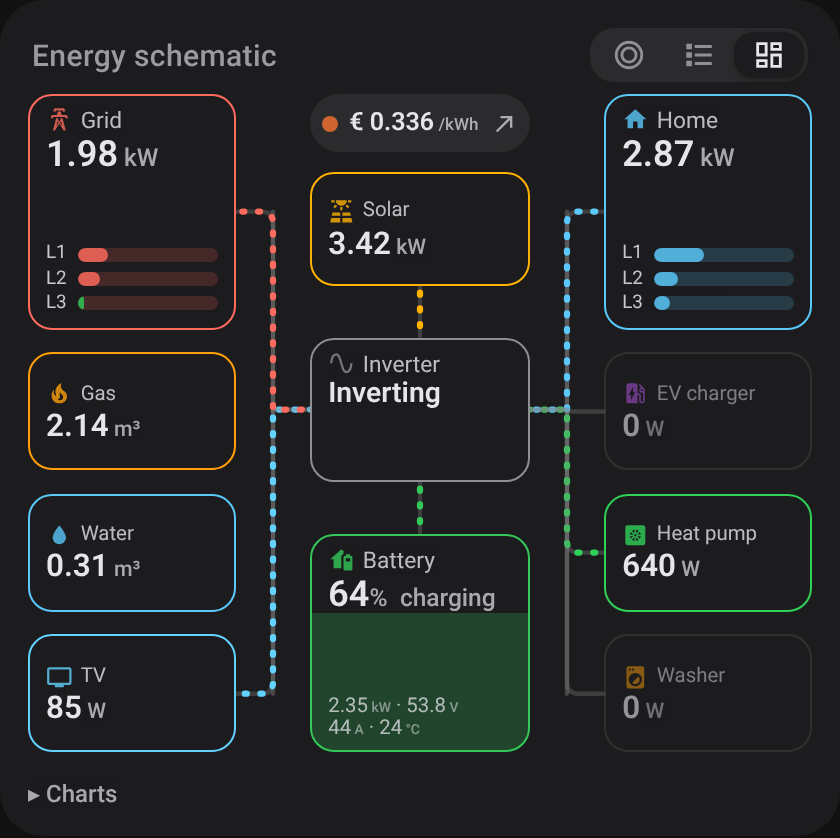
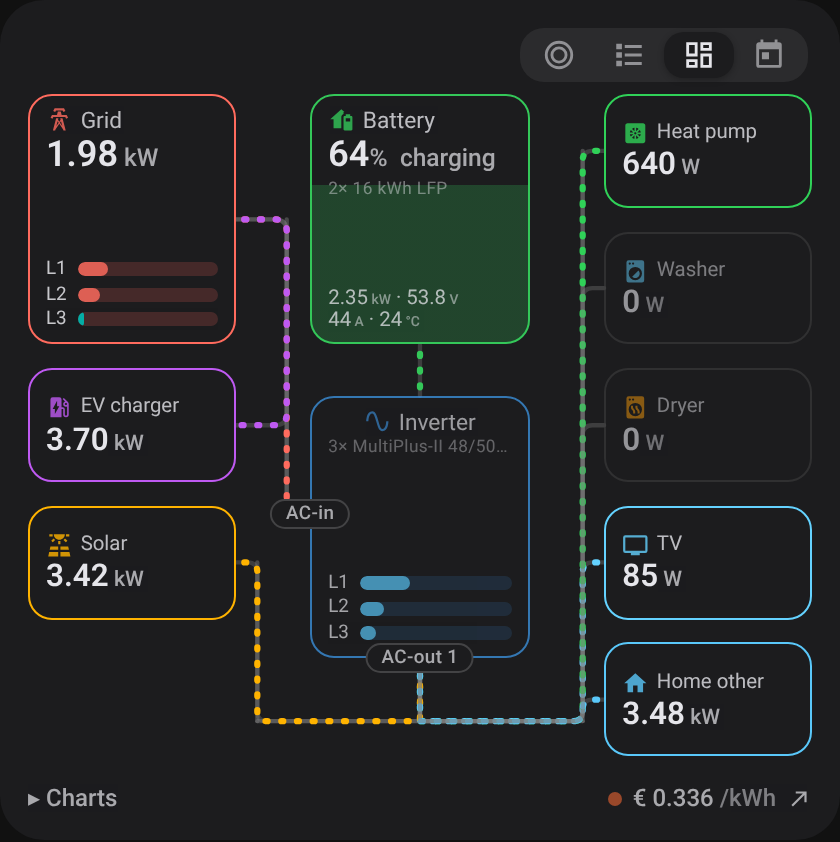
Release 1.2.0: Today costs, cheapest block, new screenshots
Claude-Session: https://claude.ai/code/session_01MQy5wZDzkBhC9TfTZhpBbL

diff --git a/total-home-energy-flow-card.js b/total-home-energy-flow-card.js
@@ -4,12 +4,12 @@
  * Line thickness follows power; optional moving dots.
  * https://github.com/gjvdveen/total-home-energy-flow-card  — MIT License
  */
-const THEF_VERSION = "1.9.0";
+const THEF_VERSION = "1.2.0";
 
 const T = {
-  en: { home_total: "Home total", produced: "produced", used: "used", imported: "imported", exp_short: "export", today_total: "Total today", home: "Home", solar: "Solar", grid: "Grid", battery: "Battery", import: "import", export: "export",
+  en: { charged: "charged", discharged: "discharged", home_total: "Home total", produced: "produced", used: "used", imported: "imported", exp_short: "export", today_total: "Total today", home: "Home", solar: "Solar", grid: "Grid", battery: "Battery", import: "import", export: "export",
         charging: "charging", discharging: "discharging", supplying: "supplying", idle: "idle", off: "off", rest: "Other", unavailable: "unavailable", legend: "Legend", charts: "Charts", gas: "Gas", water: "Water", today: "today", price: "Price", consumption: "Usage", soc: "Battery", nodata: "No data", ring: "Ring: where the home's power comes from", lines: "Line thickness = power · dots show direction", consumers: "Devices", devices_n: "devices", now: "now", at: "at", today_tab: "Today", now_tab: "Now", price_legend: "Price (on the grid tile): dot green = cheap · orange = average · red = expensive compared with today · arrow = next price goes up or down" },
-  nl: { home_total: "Huis totaal", produced: "opbrengst", used: "verbruik", imported: "afname", exp_short: "terug", today_total: "Totaal vandaag", home: "Huis", solar: "Solar", grid: "Net", battery: "Accu", import: "afname", export: "teruglevering",
+  nl: { charged: "geladen", discharged: "ontladen", home_total: "Huis totaal", produced: "opbrengst", used: "verbruik", imported: "afname", exp_short: "terug", today_total: "Totaal vandaag", home: "Huis", solar: "Solar", grid: "Net", battery: "Accu", import: "afname", export: "teruglevering",
         charging: "laden", discharging: "ontladen", supplying: "levert", idle: "rust", off: "uit", rest: "Overig", unavailable: "niet beschikbaar", legend: "Legenda", charts: "Grafieken", gas: "Gas", water: "Water", today: "vandaag", price: "Prijs", consumption: "Verbruik", soc: "Accu", nodata: "Geen gegevens", ring: "Ring: waar de stroom van het huis vandaan komt", lines: "Dikte van de lijn = vermogen · bolletjes = richting", consumers: "Apparaten", devices_n: "apparaten", now: "nu", at: "om", today_tab: "Vandaag", now_tab: "Nu", price_legend: "Prijs (bij Net): bolletje groen = goedkoop · oranje = gemiddeld · rood = duur t.o.v. vandaag · pijltje = volgende prijs hoger of lager" },
 };
 
@@ -735,6 +735,7 @@ class TotalHomeEnergyRingCard extends HTMLElement {
       .tile .th { display:flex; align-items:center; gap:4px; font-size: clamp(10px, 2.9cqw, 13px); opacity:.8; white-space:nowrap; overflow:hidden; }
       .tile .th ha-icon { --mdc-icon-size: clamp(12px, 3.4cqw, 16px); color: var(--c); flex:0 0 auto; }
       .tile ha-icon.ar { --mdc-icon-size:.8em; opacity:.6; margin-right:3px; vertical-align:-.05em; } .tile .ts ha-icon.ar { --mdc-icon-size:1em; margin-right:2px; }
+      .tile .eur { font-weight:600; opacity:.9; }
       .tile .tv { font-size: clamp(14px, 4.6cqw, 24px); font-weight:600; font-variant-numeric: tabular-nums; white-space:nowrap; line-height:1.2; overflow:hidden; text-overflow:ellipsis; }
       .tile .tv.txt { font-size: clamp(12px, 3.6cqw, 18px); white-space:normal; line-height:1.15; }
       .tile.inv .tv.txt { font-size: clamp(11px, 3.1cqw, 15px); font-weight:600; margin:auto 0; padding-bottom:4px; align-self:stretch; text-align:center; text-wrap:balance; }
@@ -853,6 +854,44 @@ class TotalHomeEnergyRingCard extends HTMLElement {
     this._pPts = pts.sort((a, b) => a[0] - b[0]);
     return `<i style="background:hsl(${(120 - 120 * f).toFixed(0)},62%,50%)"></i><span>${pcfg.prefix != null ? pcfg.prefix : "€ "}${isNaN(v) ? pc.state : v.toLocaleString(loc, { minimumFractionDigits: pcfg.decimals != null ? pcfg.decimals : 3, maximumFractionDigits: pcfg.decimals != null ? pcfg.decimals : 3 })}<span class="u"> /kWh</span></span>${tr ? `<ha-icon icon="${tr}"></ha-icon>` : ""}`;
   }
+  _pricePts() {   // [[start ms, price]] from the price sensor's attribute, sorted
+    const c = this._config, pcfg = c.price || {}, pc = pcfg.entity && this._hass.states[pcfg.entity]; if (!pc) return [];
+    const arr = (pcfg.attribute && pc.attributes[pcfg.attribute]) || (c.chart && c.chart.price && pc.attributes[c.chart.price.attribute || "prices"]) || [];
+    const sk = pcfg.start_key || (c.chart && c.chart.price && c.chart.price.start_key) || "start", vk = pcfg.value_key || (c.chart && c.chart.price && c.chart.price.value_key) || "price";
+    return (Array.isArray(arr) ? arr : []).map((x) => Array.isArray(x) ? [Date.parse(x[0]), +x[1]] : [Date.parse(x[sk]), +x[vk]]).filter((x) => !isNaN(x[0]) && !isNaN(x[1])).sort((a, b) => a[0] - b[0]);
+  }
+  _hourPrices(pts) {   // average per whole hour (also for 15-minute prices): [[hour start ms, price]]
+    const m = new Map(); for (const [t, v] of pts) { const h = new Date(t); h.setMinutes(0, 0, 0); const k = h.getTime(); const e = m.get(k) || [0, 0]; e[0] += v; e[1]++; m.set(k, e); }
+    return [...m.entries()].sort((a, b) => a[0] - b[0]).map(([k, e]) => [k, e[0] / e[1]]);
+  }
+  _hourly(id) {   // today's change per hour (Wh) of a total meter, completed hours: Map(hour start ms -> Wh)
+    if (!id) return null;
+    this._hstats = this._hstats || {};
+    const c0 = this._hstats[id];
+    if (!c0 || Date.now() - c0.t > 300000) {
+      this._hstats[id] = { t: Date.now(), v: c0 ? c0.v : null };
+      const d0 = new Date(); d0.setHours(0, 0, 0, 0);
+      this._hass.callWS({ type: "recorder/statistics_during_period", start_time: d0.toISOString(), statistic_ids: [id], period: "hour", types: ["change"], units: { energy: "Wh" } })
+        .then((r) => { const m = new Map(); for (const x of (r && r[id]) || []) { const t = typeof x.start === "number" ? x.start : Date.parse(x.start); if (x.change != null) m.set(t, x.change); }
+          this._hstats[id].v = m; this._sig = null; this._render(); }).catch(() => {});
+    }
+    return this._hstats[id].v;
+  }
+  // cost today (€) of a sum of meters: terms [[id, sign]]; per hour × that hour's price, the running hour at the current price
+  _cost(terms, clamp) {
+    const hp = this._hourPrices(this._pricePts()); if (!hp.length || !terms.length) return null;
+    const pAt = (t) => { let p = null; for (const h of hp) { if (h[0] <= t) p = h[1]; else break; } return p != null ? p : hp[0][1]; };
+    const hours = new Map(); const now = new Date(); now.setMinutes(0, 0, 0); const cur = now.getTime();
+    for (const [id, sg] of terms) {
+      const tot = this._stat(id), hm = this._hourly(id); if (tot == null || !hm) return null;
+      let sum = 0; for (const [t, wh] of hm) { if (t >= cur) continue; hours.set(t, (hours.get(t) || 0) + sg * wh); sum += wh; }
+      hours.set(cur, (hours.get(cur) || 0) + sg * Math.max(0, tot - sum));
+    }
+    let eur = 0; for (const [t, wh] of hours) eur += (clamp ? Math.max(0, wh) : wh) / 1000 * pAt(t);
+    return eur;
+  }
+  _eur(v) { const pcfg = this._config.price || {}, loc = this._hass.language || "en";
+    return v == null ? "" : (v < 0 ? "−" : "") + (pcfg.prefix != null ? pcfg.prefix : "€ ") + Math.abs(v).toLocaleString(loc, { minimumFractionDigits: 2, maximumFractionDigits: 2 }); }
   // unfolded price: cheapest and most expensive moment today (and tomorrow, when known)
   _pricePanel() {
     const pts = this._pPts || [], pcfg = this._config.price || {}, loc = this._hass.language || "en", dec = pcfg.decimals != null ? pcfg.decimals : 3, pre = pcfg.prefix != null ? pcfg.prefix : "€ ";
@@ -864,8 +903,14 @@ class TotalHomeEnergyRingCard extends HTMLElement {
     const row = (lbl, list, pick) => { if (!list.length) return ""; const v = pick(...list.map((x) => x[1])), x = list.find((y) => y[1] === v);
       const hsl = pick === Math.min ? "120,62%,45%" : "0,62%,52%";
       return `<div class="pr"><i style="background:hsl(${hsl})"></i><span class="l">${lbl}</span><span class="t">${hm(x[0])}–${hm(x[0] + (isFinite(step) ? step : 3600e3))}</span><b>${fm(v)}</b></div>`; };
-    const blk = (title, list) => list.length ? `<div class="ph">${title}</div>` + row(nl ? "Goedkoopst" : "Cheapest", list, Math.min) + row(nl ? "Duurst" : "Most expensive", list, Math.max) : "";
-    const html = blk(nl ? "Vandaag" : "Today", day(0)) + blk(nl ? "Morgen" : "Tomorrow", day(1));
+    // cheapest block of N whole hours (price.block_hours, default 3); today only from now on, so it can still be used
+    const BH = Number(pcfg.block_hours) > 0 ? Number(pcfg.block_hours) : 3;
+    const block = (list, fromNow) => { const hrs = this._hourPrices(list).filter((h) => !fromNow || h[0] + 3600e3 > Date.now()); let best = null;
+      for (let i = 0; i + BH <= hrs.length; i++) { const w = hrs.slice(i, i + BH); if (w[BH - 1][0] - w[0][0] !== (BH - 1) * 3600e3) continue;
+        const avg = w.reduce((a, h) => a + h[1], 0) / BH; if (!best || avg < best.avg) best = { t: w[0][0], avg }; }
+      return best ? `<div class="pr"><i style="background:hsl(150,55%,42%)"></i><span class="l">${nl ? `Goedkoopste ${BH} uur` : `Cheapest ${BH} h`}</span><span class="t">${hm(best.t)}–${hm(best.t + BH * 3600e3)}</span><b>${fm(best.avg)}</b></div>` : ""; };
+    const blk = (title, list, off) => list.length ? `<div class="ph">${title}</div>` + row(nl ? "Goedkoopst" : "Cheapest", list, Math.min) + block(list, off === 0) + row(nl ? "Duurst" : "Most expensive", list, Math.max) : "";
+    const html = blk(nl ? "Vandaag" : "Today", day(0), 0) + blk(nl ? "Morgen" : "Tomorrow", day(1), 1);
     return html || `<div class="ph">${this._t("nodata")}</div>`;
   }
   _render() {
@@ -954,7 +999,7 @@ class TotalHomeEnergyRingCard extends HTMLElement {
       el.style.setProperty("--c", L.col);
       el.style.top = (L.y / 290 * 100) + "%";
       if (L.side === "l") el.style.left = (L.x / 400 * 100) + "%"; else el.style.right = ((400 - L.x) / 400 * 100) + "%";
-      const sub = g.export_color || g.direction ? ((L.x0.tot || 0) < 0 ? (g.export_name || "teruglevering") : (g.import_name || "afname")) : "";
+      const sub = g.export_color || g.direction ? ((L.x0.tot || 0) < 0 ? (g.export_name || this._t("export")) : (g.import_name || this._t("import"))) : "";
       const tv = L.x0.tot || 0, dir = (g.export_color || g.direction) && Math.abs(tv) > 20;
       // arrow points towards the battery/home when importing, away when exporting
       const toMid = tv > 0, arr = dir ? (L.side === "l" ? (toMid ? "mdi:arrow-right-bold" : "mdi:arrow-left-bold") : (toMid ? "mdi:arrow-left-bold" : "mdi:arrow-right-bold")) : "";
@@ -978,7 +1023,7 @@ class TotalHomeEnergyRingCard extends HTMLElement {
     // charging positive, discharging negative (like Victron)
     const pw = bp == null ? "" : (bp > 10 ? "−" : "") + this._fmtHtml(bp);
     m.querySelector(".s").innerHTML = [vt, pw].filter(Boolean).join(" ");
-    m.title = bp == null ? "" : bp < -10 ? (b.charging_name || "laden") : bp > 10 ? (b.discharging_name || "ontladen") : (b.idle_name || "rust");
+    m.title = bp == null ? "" : bp < -10 ? (b.charging_name || this._t("charging")) : bp > 10 ? (b.discharging_name || this._t("discharging")) : (b.idle_name || this._t("idle"));
   }
   _hist(id) {   // last hour of a power sensor, for the sparklines
     if (!id) return null;
@@ -1020,16 +1065,19 @@ class TotalHomeEnergyRingCard extends HTMLElement {
   }
   _renderToday(groups, soc) {   // same schematic, but kWh since midnight (from the long-term statistics)
     const c = this._config, st = (id) => (id ? this._stat(id) : null), b = c.battery || {};
+    const showCost = !!(c.price && c.price.entity) && (c.price.today_cost !== false);   // € per tile, from the hourly price
     const tg = (x) => {
       const g = x.g;
       if (g.type === "meter") return { ...x };
       if (g.energy_import || g.energy_export) {
         const i = st(g.energy_import) || 0, e = st(g.energy_export) || 0;
-        return { ...x, tot: i, ph: [], w: 1.5, src: true, sub: e > 0 ? `<ha-icon class="ar" icon="mdi:arrow-left"></ha-icon>` + this._fmtHtml(e) : "", imp: i, exp: e };
+        const nc = showCost ? this._cost([[g.energy_import, 1], ...(g.energy_export ? [[g.energy_export, -1]] : [])]) : null;   // net cost: import minus export
+        return { ...x, tot: i, ph: [], w: 1.5, src: true, sub: [e > 0 ? `<ha-icon class="ar" icon="mdi:arrow-left"></ha-icon>` + this._fmtHtml(e) : "", nc != null ? `<span class="eur">${this._eur(nc)}</span>` : ""].filter(Boolean), imp: i, exp: e };
       }
       // say what the kWh is: produced by a source (solar), used by a consumer
       const isSrc = g.source || g.position === "top" || (groups.l.includes(x) && !g.load && g.ac !== "in");
-      return { ...x, tot: g._rest ? null : (g.energy ? st(g.energy) : null), ph: [], w: 1, src: !!isSrc };
+      const ec = showCost && g.energy && !g._rest ? this._cost([[g.energy, 1]]) : null;
+      return { ...x, tot: g._rest ? null : (g.energy ? st(g.energy) : null), ph: [], w: 1, src: !!isSrc, sub: ec != null ? `<span class="eur">${this._eur(ec)}</span>` : undefined };
     };
     this._eMode = true;
     const tgs = { l: groups.l.map(tg), r: groups.r.map(tg) };
@@ -1043,6 +1091,13 @@ class TotalHomeEnergyRingCard extends HTMLElement {
     const home = rest && rest.g.entity ? null : tgs.r.find((x) => !x.g._rest);
     if (home && home.tot == null && !home.g.energy) home.tot = bal;
     if (rest) this._restCalc(tgs, rest, rest.g.entity ? (rest.g.energy ? st(rest.g.energy) : bal) : undefined);
+    if (rest && showCost && rest.tot != null) {
+      const gi = grid && grid.g, homeT = rest.g.energy ? [[rest.g.energy, 1]] : gi ? [[gi.energy_import, 1], ...(gi.energy_export ? [[gi.energy_export, -1]] : []), ...srcs.filter((x) => x.g.energy).map((x) => [x.g.energy, 1]),
+        ...(b.energy_discharge ? [[b.energy_discharge, 1]] : []), ...(b.energy_charge ? [[b.energy_charge, -1]] : [])] : [];
+      const loads = [...tgs.r, ...tgs.l].filter((x) => x !== rest && x !== grid && !x.src && x.g.energy && x.g.type !== "meter" && x.g.in_rest !== false && (x.g.ac !== "in" || x.g.in_rest === true));
+      const rc = homeT.length ? this._cost([...homeT, ...loads.map((x) => [x.g.energy, -1])], true) : null;
+      if (rc != null) rest.sub = `<span class="eur">${this._eur(rc)}</span>`;
+    }
     this._el.ov.classList.add("static");
     this._renderOv(tgs, soc, this._bE ? this._bE.d - this._bE.c : null);
     this._eMode = false;
@@ -1174,7 +1229,7 @@ class TotalHomeEnergyRingCard extends HTMLElement {
     const needMid = hPr + PG + hTop + hInv + hBat + (hTop ? LG2 : 0) + (hBat ? LG2 : 0) + (vic ? 20 : 0);
     let topH = Math.round(Math.max(cmp ? 200 : 240, vicPos ? 0 : needSides, needMid));   // Victron layout: rows counted on the grid below
     // Victron layout: both columns on one row grid, so left and right tiles line up (a tile with phase bars takes two rows)
-    const SP = UMIN + G, sl = (x) => (x.ph && x.ph.length ? 2 : 1);
+    const SP = UMIN + G, sl = (x) => ((x.ph && x.ph.length) || (x.g.phases && x.g.phases.length) ? 2 : 1);
     if (vicPos) { const ns = Math.max(...[[...vicPos.lTop, ...vicPos.lBot], [...vicPos.rTop, ...vicPos.rBot]].map((L) => L.reduce((a, x) => a + sl(x), 0)));
       topH = Math.max(Math.ceil((Math.max(topH, ns * SP - G) + G) / SP), ns) * SP - G; }
     const rows = Math.ceil(devs.length / 3), RH = UMIN, gridTop = topH + 30;
@@ -1213,7 +1268,7 @@ class TotalHomeEnergyRingCard extends HTMLElement {
           if (p.sm && m.sub) { const t = this._tiles[side + i]; t.querySelector(".th span").textContent = (g.name || "") + " · " + m.sub.replace(/<[^>]+>/g, "").replace(/\u00a0/g, " "); }
           return; }
         const exp = g.export_color && (x.tot || 0) < 0, cc = exp ? g.export_color : color, on = Math.abs(x.tot || 0) > thr(g);
-        const sub = g.export_color ? ((x.tot || 0) < -thr(g) ? (g.export_name || "teruglevering") : (x.tot || 0) > thr(g) ? (g.import_name || "afname") : "") : "";
+        const sub = g.export_color ? ((x.tot || 0) < -thr(g) ? (g.export_name || this._t("export")) : (x.tot || 0) > thr(g) ? (g.import_name || this._t("import")) : "") : "";
         this._tile(side + i, { x: tx, y: p.y, w: CW, h: p.h, color: cc, on, icon: g.icon || "mdi:flash", name: g.name, value: (x.src != null ? `<ha-icon class="ar" icon="mdi:arrow-${(side === "l") === x.src ? "right" : "left"}"></ha-icon>` : "") + this._fmtHtml(x.tot), phases: x.ph.length ? x.ph : null, sub: x.sub != null ? x.sub : !x.ph.length && sub && !p.sm ? sub : "", cls: p.sm ? "sm" : "", cfg: g });
         const br = false;   // (old in-column home branch, replaced by the grid below)
         let ty = br && i === 0 ? p.y + Math.min(28, p.h / 3) : p.y + p.h / 2, ex = side === "l" ? tx + CW : tx, bx = side === "l" ? (ex + inT.x) / 2 + (vic ? 7 : 0) : br ? inT.x + MW + (ex - inT.x - MW) * 0.35 : (inT.x + MW + ex) / 2;
@@ -1290,11 +1345,11 @@ class TotalHomeEnergyRingCard extends HTMLElement {
     // battery
     if (b) {
       const alarm = b.soc_alarm != null ? Number(b.soc_alarm) : 15, bc = b.color || (soc != null && soc < alarm ? "#ff6b5e" : "#34c759");
-      const st = bp == null ? "" : bp < -10 ? (b.charging_name || "laden") : bp > 10 ? (b.discharging_name || "ontladen") : (b.idle_name || "rust");
+      const st = bp == null ? "" : bp < -10 ? (b.charging_name || this._t("charging")) : bp > 10 ? (b.discharging_name || this._t("discharging")) : (b.idle_name || this._t("idle"));
       const f = (id, u, dec) => { const e = id && hs[id]; if (!e || isNaN(parseFloat(e.state))) return null; return parseFloat(e.state).toLocaleString(this._hass.language || "en", { maximumFractionDigits: dec, minimumFractionDigits: dec }) + "<span class='u'>\u00a0" + u + "</span>"; };
       const bw = Math.abs(bp || 0) > 10 ? (bp > 0 ? "−" : "") + this._fmtHtml(bp) : "";
       let l1 = [bw, f(b.voltage, "V", 1)].filter(Boolean).join(" · "), l2 = [f(b.current, "A", 0), f(b.temperature, "°C", 0)].filter(Boolean).join(" · ");
-      if (this._eMode && this._bE) { l1 = (b.charged_name || "geladen") + " " + this._fmtHtml(this._bE.c); l2 = (b.discharged_name || "ontladen") + " " + this._fmtHtml(this._bE.d); }
+      if (this._eMode && this._bE) { l1 = (b.charged_name || this._t("charged")) + " " + this._fmtHtml(this._bE.c); l2 = (b.discharged_name || this._t("discharged")) + " " + this._fmtHtml(this._bE.d); }
       const t = this._tile("bat", { ...baT, color: bc, on: true, icon: b.icon || "mdi:home-battery", name: b.name || "Accu", value: soc == null ? "–" : `${Math.round(soc)}<span class="u">%\u2002${this._eMode ? "" : st}</span>`,
         sub: [l1, l2], cls: "bat", cfg: b });
       t.style.setProperty("--soc", (soc == null ? 0 : Math.max(0, Math.min(100, soc))) + "%");

diff --git a/README.md b/README.md
@@ -9,22 +9,24 @@
 🇳🇱 [Nederlandse versie](README.nl.md)
 
 <p align="center">
-  <img src="images/en-ring.png" width="32%" alt="Ring view">
-  <img src="images/en-list.png" width="32%" alt="List view">
-  <img src="images/en-overview.png" width="32%" alt="Schematic view">
+  <img src="images/en-ring.png" width="24%" alt="Ring view">
+  <img src="images/en-list.png" width="24%" alt="List view">
+  <img src="images/en-overview.png" width="24%" alt="Schematic view">
+  <img src="images/en-today.png" width="24%" alt="Today view">
 </p>
 
 ## Why this card?
 
 - **Many energy consumers, not just "home"**: show every device you measure (EV charger, heat pump, boiler, washing machine, TV, Shelly plugs…), each with its own tile, colour and animated line. Up to 5 per side, plus solar in the middle, and the card grows with them. An automatic **Other** tile shows everything you don't measure separately.
-- **Three views in one card**: switch with the buttons in the top right; the card remembers your choice.
+- **Four views in one card**: switch with the buttons in the top right; the card remembers your choice.
   - **Ring**: the battery in the middle, power arcs around it, one arc per phase.
   - **List**: the battery ring with a compact list beside it, each with a sparkline of the last hour and phase bars.
   - **Schematic**: tiles connected to the inverter with animated lines that show where the power flows.
-  - **Today**: the same schematic with kWh since midnight per tile (needs `energy` sensors).
+  - **Today**: the same schematic with kWh since midnight per tile and what it cost, using the hourly price (needs `energy` sensors).
 - **Per-phase power** (L1 / L2 / L3) for grid and home, including phases that export while others import.
 - **Gas and water** as info tiles (today's usage).
-- **Live energy price** with a colour dot (cheap → expensive compared with today) and a trend arrow for the next hour.
+- **Live energy price** with a colour dot (cheap → expensive compared with today) and a trend arrow. Tap it for the cheapest hour, the cheapest 3-hour block and the most expensive hour of today and tomorrow.
+- **Victron-style schematic**: tell each item whether it sits on AC-in, AC-out 1 or AC-out 2 and the card draws it that way, with the inverter model and per-phase output.
 - **Collapsible charts**: price, solar, battery, usage and grid for the last 24 hours.
 - **Works with any setup.** Built with a Victron ESS in mind, but every value is just a Home Assistant sensor.
 - Light-weight: a single JavaScript file, no dependencies, follows your Home Assistant theme.
@@ -216,6 +218,8 @@ chart:
 | `prefix` | Default `€ ` |
 | `position` | `bottom` (default): small, bottom right next to *Charts*, on every view; tap it to unfold the cheapest and most expensive moment of today (and tomorrow, once known). `top`: as a pill above the middle column of the schematic (also used when there are no charts) |
 | `show` | `false` hides the price |
+| `block_hours` | Length of the *cheapest block* in the unfolded price list (default `3`) |
+| `today_cost` | `false` hides the € amounts in the *Today* view |
 
 ### Charts (`chart`)
 

diff --git a/README.nl.md b/README.nl.md
@@ -9,21 +9,24 @@
 🇬🇧 [English version](README.md)
 
 <p align="center">
-  <img src="images/nl-ring.png" width="32%" alt="Ring">
-  <img src="images/nl-list.png" width="32%" alt="Lijst">
-  <img src="images/nl-overview.png" width="32%" alt="Schema">
+  <img src="images/nl-ring.png" width="24%" alt="Ring">
+  <img src="images/nl-list.png" width="24%" alt="Lijst">
+  <img src="images/nl-overview.png" width="24%" alt="Schema">
+  <img src="images/nl-today.png" width="24%" alt="Vandaag">
 </p>
 
 ## Waarom deze kaart?
 
 - **Meerdere energieverbruikers, niet alleen "huis"**: elk apparaat dat je meet (laadpaal, warmtepomp, boiler, wasmachine, tv, Shelly-stekkers…) krijgt een eigen tegel, kleur en bewegende lijn. Tot 5 per kant, plus solar in het midden, en de kaart groeit mee. Een automatische tegel **Overig** toont alles wat je niet apart meet (`rest: true`).
-- **Drie weergaven in één kaart**: wissel met de knopjes rechtsboven; de kaart onthoudt je keuze.
+- **Vier weergaven in één kaart**: wissel met de knopjes rechtsboven; de kaart onthoudt je keuze.
   - **Ring**: de accu in het midden met vermogensbogen eromheen, per fase een eigen boog.
   - **Lijst**: de accuring met ernaast een compacte lijst, met een mini-grafiek van het laatste uur en fasebalkjes.
   - **Schema**: tegels die met de omvormer verbonden zijn via bewegende lijnen die laten zien waar de stroom heen gaat.
+  - **Vandaag**: hetzelfde schema met de kWh sinds middernacht per tegel en wat het kostte, met de uurprijs (vraagt `energy`-sensoren).
 - **Vermogen per fase** (L1 / L2 / L3) voor net en huis, ook als één fase teruglevert terwijl de andere afnemen.
 - **Gas en water** als informatietegels (verbruik van vandaag).
-- **Actuele stroomprijs** met een gekleurd bolletje (goedkoop → duur ten opzichte van vandaag) en een pijltje voor het volgende uur.
+- **Actuele stroomprijs** met een gekleurd bolletje (goedkoop → duur ten opzichte van vandaag) en een pijltje. Tik erop voor het goedkoopste uur, het goedkoopste blok van 3 uur en het duurste uur van vandaag en morgen.
+- **Schema in Victron-stijl**: geef per apparaat aan of het op AC-in, AC-out 1 of AC-out 2 zit en de kaart tekent het zo, met het type omvormer en het vermogen per fase.
 - **Uitklapbare grafieken**: prijs, solar, accu, verbruik en net over de afgelopen 24 uur.
 - **Werkt met elke installatie.** Gemaakt met een Victron ESS in gedachten, maar elke waarde is gewoon een Home Assistant-sensor.
 - Licht: één JavaScript-bestand, geen afhankelijkheden, volgt je Home Assistant-thema.

diff --git a/CHANGELOG.md b/CHANGELOG.md
@@ -1,6 +1,9 @@
 # Changelog
 
-## 1.2.0 (unreleased)
+## 1.2.0 (2026-11-22)
+- **Costs in *Today***: every tile with an `energy` sensor shows what it cost today, hour by hour at that hour's price (grid: import minus export; *Other*: from the home balance). Turn off with `price.today_cost: false`.
+- **Cheapest block**: the unfolded price list also shows the cheapest block of 3 hours (`price.block_hours`), for today from now on and for tomorrow.
+- Battery and import/export labels follow the Home Assistant language.
 - **Price next to the charts**: the current price now sits small at the bottom right, on the same line as *Charts*, on every view. This frees up room in the schematic. `price.position: top` keeps the old pill. Tap the price to unfold the cheapest and most expensive moment of today and tomorrow.
 - **`min_power`**: set from how many watts a tile lights up and its line starts flowing (card-wide, per item, or on the battery). Default 20 W.
 - Grid export colour changed to mint (`#00c7be`) so it no longer looks the same as the battery.
